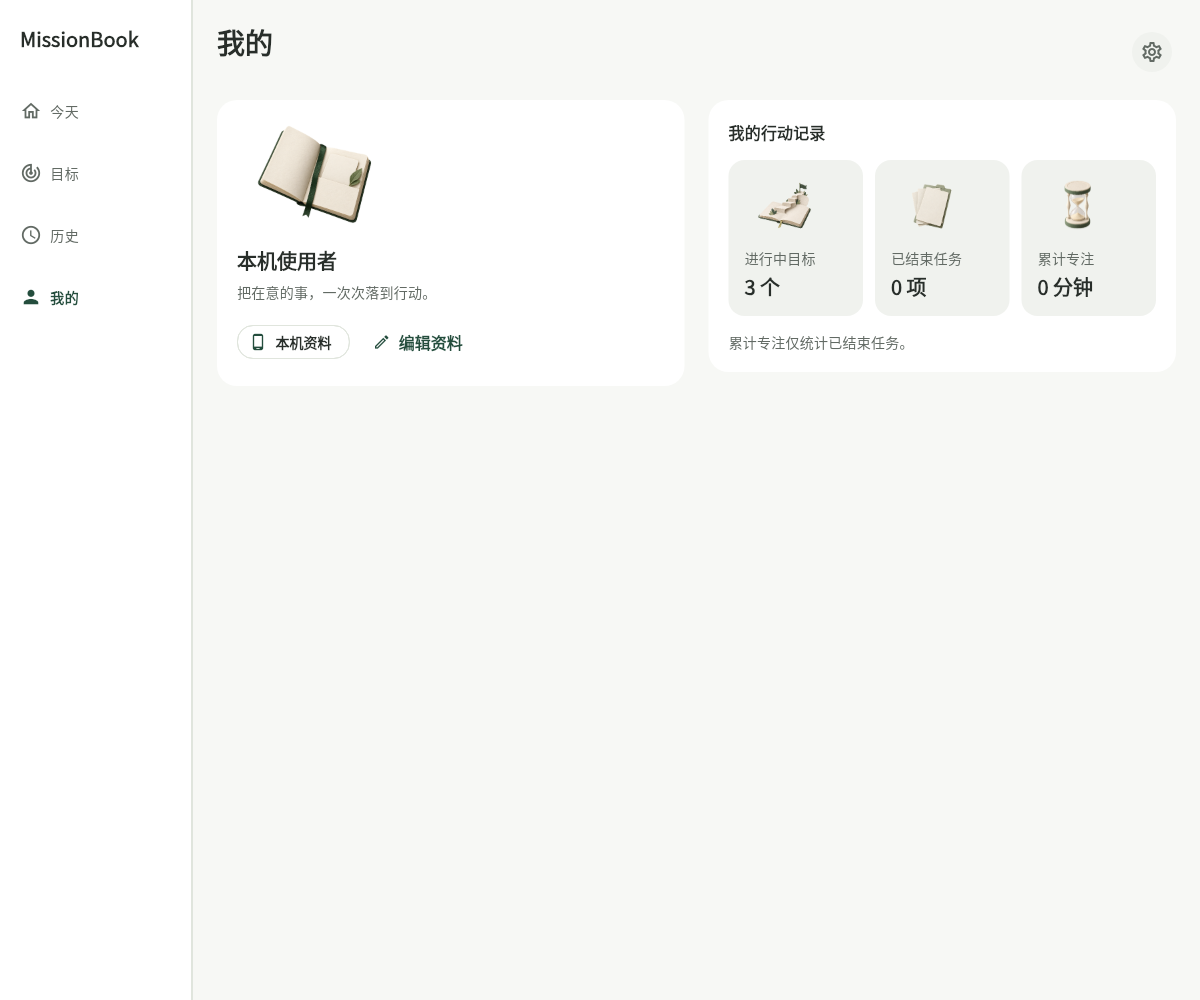
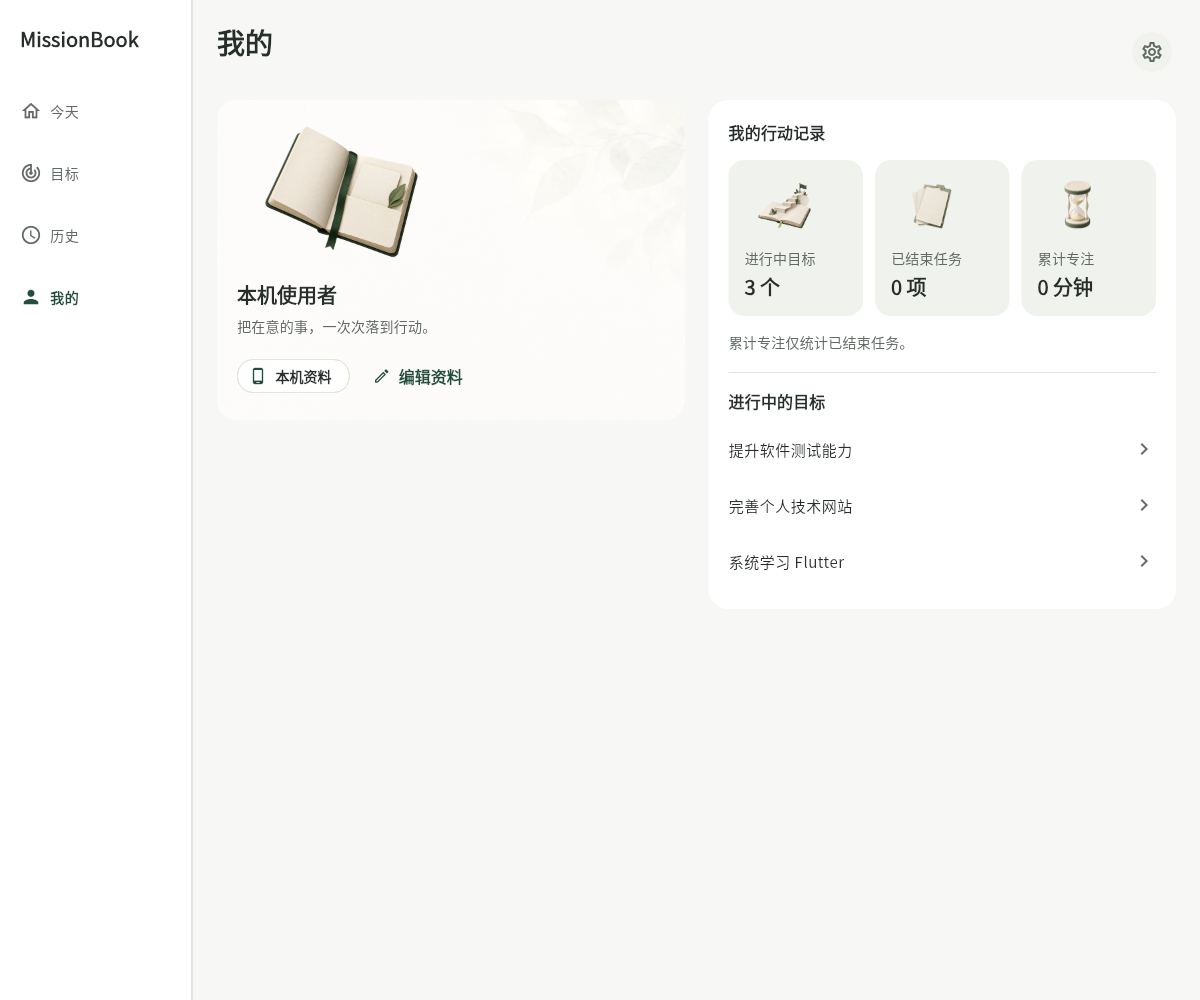
feat(ui): add personal activity shortcuts and paper texture

diff --git a/lib/presentation/me/me_page.dart b/lib/presentation/me/me_page.dart
@@ -11,7 +11,10 @@ import '../../core/theme/app_layout.dart';
 import '../../core/theme/colors.dart';
 import '../../domain/entities/execution_event.dart';
 import '../../domain/entities/goal.dart';
+import '../../domain/entities/mission_detail.dart';
 import '../../domain/rules/execution_time_rules.dart';
+import '../goals/detail/goal_detail_page.dart';
+import '../missions/record/mission_record_page.dart';
 import '../widgets/adaptive_columns.dart';
 import '../widgets/app_confirm_dialog.dart';
 import '../widgets/app_illustration.dart';
@@ -46,11 +49,14 @@ class _MePageState extends State<MePage> with WidgetsBindingObserver {
   String? _profileError;
   String? _statsError;
   ({int goals, int ended, int minutes})? _stats;
+  List<Goal> _activeGoals = const [];
+  List<MissionDetail> _recentRecords = const [];
   StreamSubscription<void>? _missionChanges;
   StreamSubscription<void>? _goalChanges;
   int _statsGeneration = 0;
   bool _editing = false;
   bool _openingSettings = false;
+  bool _openingDetail = false;
 
   @override
   void initState() {
@@ -100,9 +106,21 @@ class _MePageState extends State<MePage> with WidgetsBindingObserver {
         }
       }
       if (!mounted || generation != _statsGeneration) return;
+      final activeGoals = goals
+          .where((goal) => goal.status == GoalStatus.active)
+          .toList();
       setState(() {
+        _activeGoals = activeGoals.take(3).toList();
+        _recentRecords = missions
+            .where(
+              (mission) =>
+                  mission.events.isNotEmpty &&
+                  mission.events.last.type == ExecutionEventType.end,
+            )
+            .take(2)
+            .toList();
         _stats = (
-          goals: goals.where((goal) => goal.status == GoalStatus.active).length,
+          goals: activeGoals.length,
           ended: ended,
           minutes: focus.inMinutes,
         );
@@ -149,6 +167,41 @@ class _MePageState extends State<MePage> with WidgetsBindingObserver {
     }
   }
 
+  Future<void> _openGoal(Goal goal) async {
+    if (_openingDetail) return;
+    _openingDetail = true;
+    try {
+      await openDetailPane<void>(
+        context,
+        label: '目标详情',
+        builder: (_) => GoalDetailPage(
+          service: widget.goals,
+          goalId: goal.id,
+          missionService: widget.missions,
+        ),
+      );
+    } finally {
+      _openingDetail = false;
+      if (mounted) unawaited(_refreshStats());
+    }
+  }
+
+  Future<void> _openRecord(MissionDetail detail) async {
+    if (_openingDetail) return;
+    _openingDetail = true;
+    try {
+      await openDetailPane<void>(
+        context,
+        label: '执行记录',
+        builder: (_) =>
+            MissionRecordPage(detail: detail, service: widget.missions),
+      );
+    } finally {
+      _openingDetail = false;
+      if (mounted) unawaited(_refreshStats());
+    }
+  }
+
   @override
   void dispose() {
     WidgetsBinding.instance.removeObserver(this);
@@ -183,14 +236,28 @@ class _MePageState extends State<MePage> with WidgetsBindingObserver {
               maxColumns: 2,
               spacing: 24,
               children: [
-                _ProfileCard(
-                  profile: _profile,
-                  error: _profileError,
-                  onEdit: _profile == null ? null : _editProfile,
-                  onRetry: _loadProfile,
+                Column(
+                  crossAxisAlignment: CrossAxisAlignment.stretch,
+                  children: [
+                    _ProfileCard(
+                      profile: _profile,
+                      error: _profileError,
+                      onEdit: _profile == null ? null : _editProfile,
+                      onRetry: _loadProfile,
+                    ),
+                    if (_statsError == null && _recentRecords.isNotEmpty) ...[
+                      const SizedBox(height: 24),
+                      _RecentRecords(
+                        records: _recentRecords,
+                        onOpen: _openRecord,
+                      ),
+                    ],
+                  ],
                 ),
                 _ActivityOverview(
                   stats: _statsError == null ? _stats : null,
+                  goals: _statsError == null ? _activeGoals : const [],
+                  onOpenGoal: _openGoal,
                   error: _statsError,
                   onRetry: _refreshStats,
                 ),
@@ -219,15 +286,31 @@ class _ProfileCard extends StatelessWidget {
   @override
   Widget build(BuildContext context) {
     final text = Theme.of(context).textTheme;
-    return AppSectionCard(
+    return Container(
       key: const Key('profile-card'),
+      padding: const EdgeInsets.all(20),
+      decoration: BoxDecoration(
+        color: AppColors.card,
+        borderRadius: BorderRadius.circular(20),
+        image: const DecorationImage(
+          image: AssetImage(
+            'assets/illustrations/profile-paper-background.png',
+          ),
+          fit: BoxFit.cover,
+          // 纸纹保持低对比，深浅文字在背景变化时依然清晰。
+          colorFilter: ColorFilter.mode(
+            Color.fromRGBO(255, 255, 255, .85),
+            BlendMode.srcOver,
+          ),
+        ),
+      ),
       child: Column(
         crossAxisAlignment: CrossAxisAlignment.start,
         children: [
           const AppIllustration(
             asset: 'assets/illustrations/profile-notebook.png',
-            width: 156,
-            height: 106,
+            width: 210,
+            height: 140,
           ),
           const SizedBox(height: 20),
           Text(
@@ -274,14 +357,51 @@ class _ProfileCard extends StatelessWidget {
   }
 }
 
+/// 最近记录使用现有历史查询结果，点击复用正式执行记录页面。
+class _RecentRecords extends StatelessWidget {
+  const _RecentRecords({required this.records, required this.onOpen});
+  final List<MissionDetail> records;
+  final ValueChanged<MissionDetail> onOpen;
+
+  @override
+  Widget build(BuildContext context) {
+    final text = Theme.of(context).textTheme;
+    return AppSectionCard(
+      child: Column(
+        crossAxisAlignment: CrossAxisAlignment.stretch,
+        children: [
+          Semantics(
+            container: true,
+            header: true,
+            child: Text('最近的行动', style: text.titleMedium),
+          ),
+          const SizedBox(height: 8),
+          for (final record in records)
+            ListTile(
+              key: ValueKey('profile-record-${record.mission.id}'),
+              contentPadding: EdgeInsets.zero,
+              title: Text(record.mission.title, style: text.bodyLarge),
+              trailing: const Icon(Icons.chevron_right),
+              onTap: () => onOpen(record),
+            ),
+        ],
+      ),
+    );
+  }
+}
+
 /// 数字只接收页面查询出的事实，空态不能将读取失败当作零。
 class _ActivityOverview extends StatelessWidget {
   const _ActivityOverview({
     required this.stats,
+    required this.goals,
+    required this.onOpenGoal,
     required this.error,
     required this.onRetry,
   });
   final ({int goals, int ended, int minutes})? stats;
+  final List<Goal> goals;
+  final ValueChanged<Goal> onOpenGoal;
   final String? error;
   final VoidCallback onRetry;
 
@@ -347,6 +467,25 @@ class _ActivityOverview extends StatelessWidget {
           ),
           const SizedBox(height: 16),
           Text('累计专注仅统计已结束任务。', style: text.bodyMedium),
+          if (goals.isNotEmpty) ...[
+            const SizedBox(height: 20),
+            const Divider(height: 1),
+            const SizedBox(height: 16),
+            Semantics(
+              container: true,
+              header: true,
+              child: Text('进行中的目标', style: text.titleMedium),
+            ),
+            const SizedBox(height: 8),
+            for (final goal in goals)
+              ListTile(
+                key: ValueKey('profile-goal-${goal.id}'),
+                contentPadding: EdgeInsets.zero,
+                title: Text(goal.title, style: text.bodyLarge),
+                trailing: const Icon(Icons.chevron_right),
+                onTap: () => onOpenGoal(goal),
+              ),
+          ],
           if (error != null) ...[
             Semantics(
               liveRegion: true,

diff --git a/test/presentation/profile_page_test.dart b/test/presentation/profile_page_test.dart
@@ -221,6 +221,16 @@ void main() {
     final focus = find.byKey(const ValueKey('profile-stat-累计专注'));
     await tester.ensureVisible(focus);
     expect(tester.widget<Text>(focus).data, '5 分钟');
+    final record = find.byKey(const ValueKey('profile-record-done'));
+    expect(record, findsOneWidget);
+    expect(find.byKey(const ValueKey('profile-record-ongoing')), findsNothing);
+    await tester.ensureVisible(record);
+    await tester.pumpAndSettle();
+    await tester.tap(record);
+    await tester.pumpAndSettle();
+    expect(find.text('执行记录'), findsOneWidget);
+    await tester.tap(find.byTooltip('返回'));
+    await tester.pumpAndSettle();
     await goals.setGoalStatus(goal, GoalStatus.paused);
     await tester.pumpAndSettle();
     final goalStat = find.byKey(const ValueKey('profile-stat-进行中目标'));
@@ -301,5 +311,23 @@ void main() {
     await tester.sendKeyEvent(LogicalKeyboardKey.enter);
     await tester.pumpAndSettle();
     expect(find.text('提醒与权限'), findsOneWidget);
+  });
+  testWidgets('行动概览列出真实进行中目标，可打开详情并随状态变更刷新', (tester) async {
+    final goal = goals.prepareCreation(title: '真正的目标');
+    await goals.create(goal);
+    await open(tester, size: const Size(1200, 1000));
+    final shortcut = find.byKey(ValueKey('profile-goal-${goal.id}'));
+    expect(shortcut, findsOneWidget);
+    await tester.ensureVisible(shortcut);
+    await tester.pumpAndSettle();
+    await tester.tap(shortcut);
+    await tester.pumpAndSettle();
+    expect(find.byKey(const Key('goal-edit')), findsOneWidget);
+    await tester.tap(find.byTooltip('返回'));
+    await tester.pumpAndSettle();
+    await goals.setGoalStatus(goal, GoalStatus.paused);
+    await tester.pumpAndSettle();
+    expect(shortcut, findsNothing);
+    expect(find.text('行动会在这里留下记录'), findsOneWidget);
   });
 }

diff --git a/test/presentation/adaptive_workspace_test.dart b/test/presentation/adaptive_workspace_test.dart
@@ -35,6 +35,7 @@ Future<void> _capture(WidgetTester tester, String name) async {
       'assets/illustrations/goal-path.png',
       'assets/illustrations/day-plan.png',
       'assets/illustrations/history-pages.png',
+      'assets/illustrations/profile-paper-background.png',
       'assets/illustrations/profile-notebook.png',
       'assets/illustrations/settings-notebook.png',
       'assets/illustrations/focus-hourglass.png',
@@ -43,7 +44,7 @@ Future<void> _capture(WidgetTester tester, String name) async {
     }
     // 页面按实际展示尺寸缓存，截图需预解码同一 ResizeImage，而不仅是原图。
     for (final (asset, width) in [
-      ('assets/illustrations/profile-notebook.png', 468),
+      ('assets/illustrations/profile-notebook.png', 630),
       ('assets/illustrations/settings-notebook.png', 300),
       ('assets/illustrations/focus-hourglass.png', 240),
       ('assets/illustrations/goal-path.png', 240),

diff --git a/docs/ui设计手册/制作记录/2026-10-27-我的与设置插画.md b/docs/ui设计手册/制作记录/2026-10-27-我的与设置插画.md
@@ -7,3 +7,10 @@
 - `assets/illustrations/focus-hourglass.png`：累计专注统计，纸艺沙漏。提示词：`small transparent illustration for a focus time statistic ... miniature hourglass made of cream textured paper and muted forest-green base ... no numbers, letters or logos`。
 
 三张素材由内置生图生成后直接复制到项目；未覆盖原有素材，保留透明通道。生成图不代表用户头像、提醒送达或任务执行状态。页面截图使用隔离测试数据，需在目标 Android 平板和 Windows 上继续验收。
+- `assets/illustrations/profile-paper-background.png`：个人资料卡背景。提示词：`almost-white warm ivory handmade paper ... extremely faint natural fibre texture ... pale sage leaf silhouettes in far upper right ... uncluttered low-contrast negative space ... no text`。实际展示叠加85%白色遮罩；对原图各通道最暗值合成后的保守下限计算，次级正文 `#626A64` 对比度约4.585:1。该计算仅覆盖素材与指定颜色，不等同全应用或设备无障碍验收。
+
+## 本轮设计依据
+
+- [Apple Layout](https://developer.apple.com/design/human-interface-guidelines/layout)：按阅读顺序组织重要内容，利用对齐和分组表达层次，并适应窗口与字体大小变化。本轮把资料、统计、真实目标和近期记录分组，文本按阅读方向左对齐。
+- [Android 大屏布局](https://developer.android.com/guide/topics/large-screens/user-interface)：使用随窗口变化的多栏与辅助面板。本轮按实际内容宽度、字体缩放重排，不以设备型号固定布局。
+- [W3C 文字对比度](https://www.w3.org/WAI/WCAG22/Understanding/contrast-minimum.html)：以普通文字4.5:1作为背景可读性的参考；素材最深处对正文可能造成干扰，故在显示层使用浅色遮罩并计算保守下界。

diff --git a/docs/教学/学习进度.md b/docs/教学/学习进度.md
@@ -715,3 +715,5 @@ flowchart LR
 - 实际验证与设备验收：以本轮测试及交付记录为准；自动化测试、隔离数据截图和 APK 构建不能替代用户在 Android 平板和 Windows 上操作验收。
 - 用户掌握：本轮由助手实施，未取得用户独立实现或复述证据，不标记为掌握。
 - 本轮验证：`flutter analyze --no-pub`无问题；包含插画及页面重构的全量回归439项通过，随后新增设置入口 Tab/回车专项1项通过；资料/设置专项17项通过。宽屏隔离数据渲染见[我的](assets/ui-review-20261027-me/profile-1200.png)和[设置](assets/ui-review-20261027-me/settings-1200.png)。首次全量期间发现减少动画下零时长布局异常，修复后完整重跑通过。截图使用测试数据，尚未安装到设备验收。
+- 用户补充适配、对齐与避免大面积空白后，行动概览增加最多三个真实进行中目标，可直接进入既有详情；状态变更重新查询，失败隐藏旧结果。放大资料插画，仍按可用宽度与文字缩放重排。专项测试覆盖进入详情、返回和状态变化；最新完整回归及 APK 结果另记。
+- 用户希望丰富卡片背景和个人功能后，新增一张内置生图的浅纸纹背景（保留提示词和设计依据），叠加白色遮罩以保证次级正文在素材最暗处的保守对比下界约4.585:1。个人页另展示最多两条真实已结束任务并打开既有执行记录；测试确认未结束任务不出现在记录中。代码仍复用现有查询及导航，未更改领域数据。
